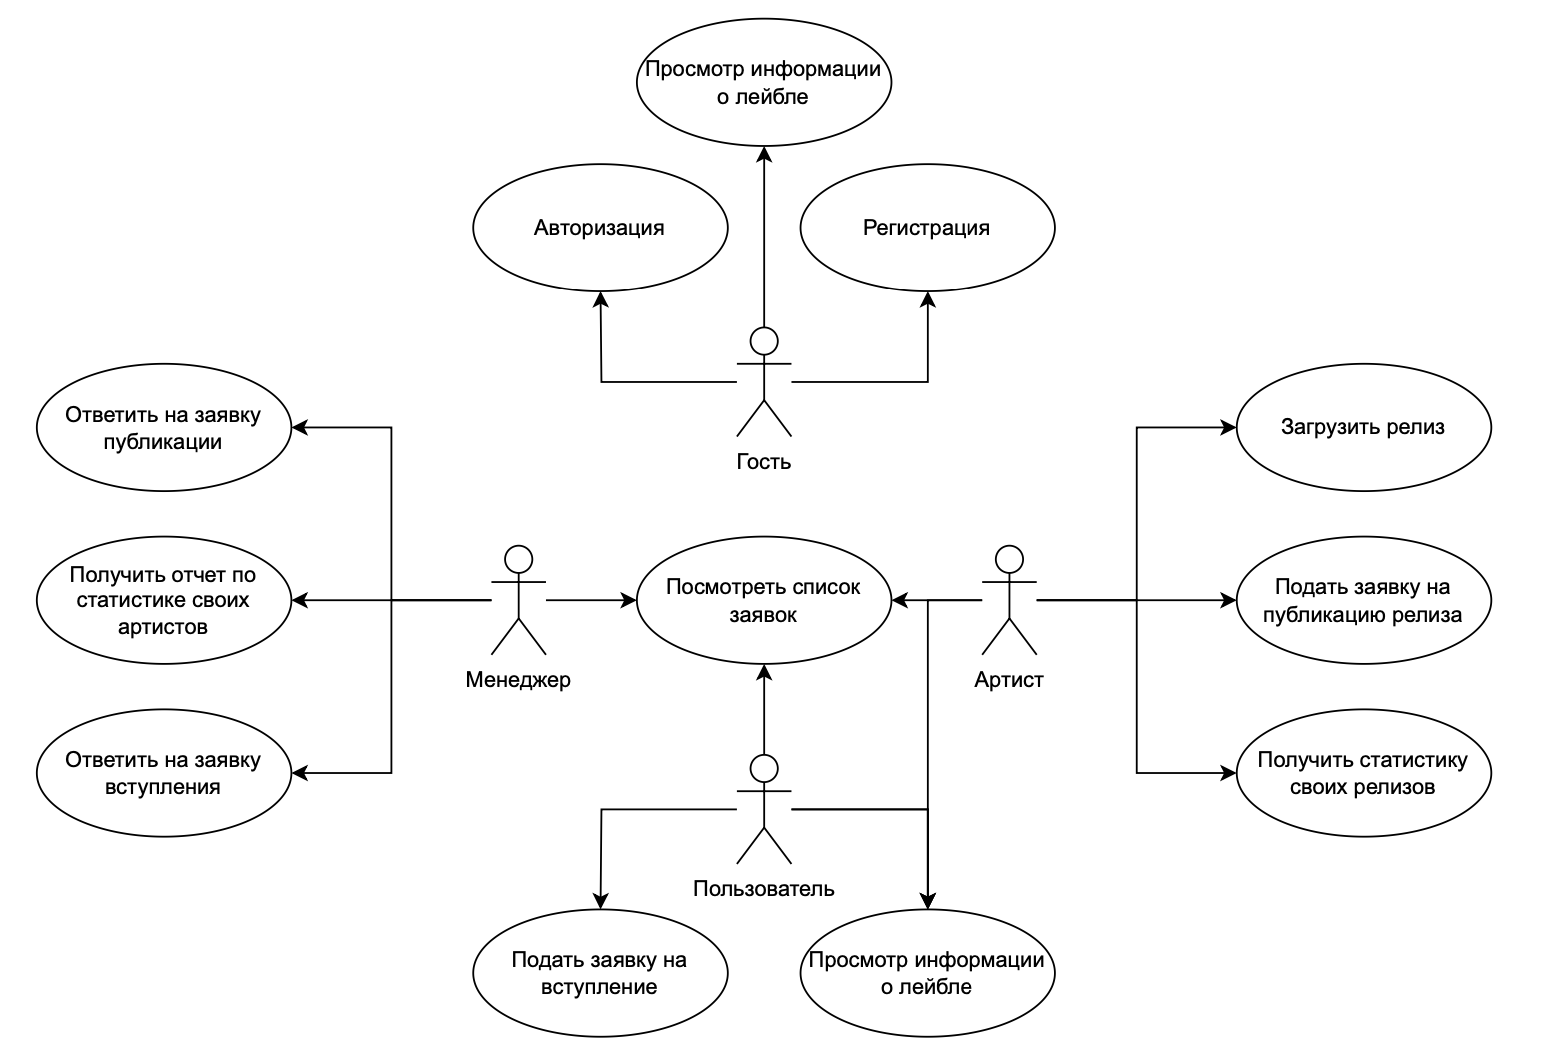
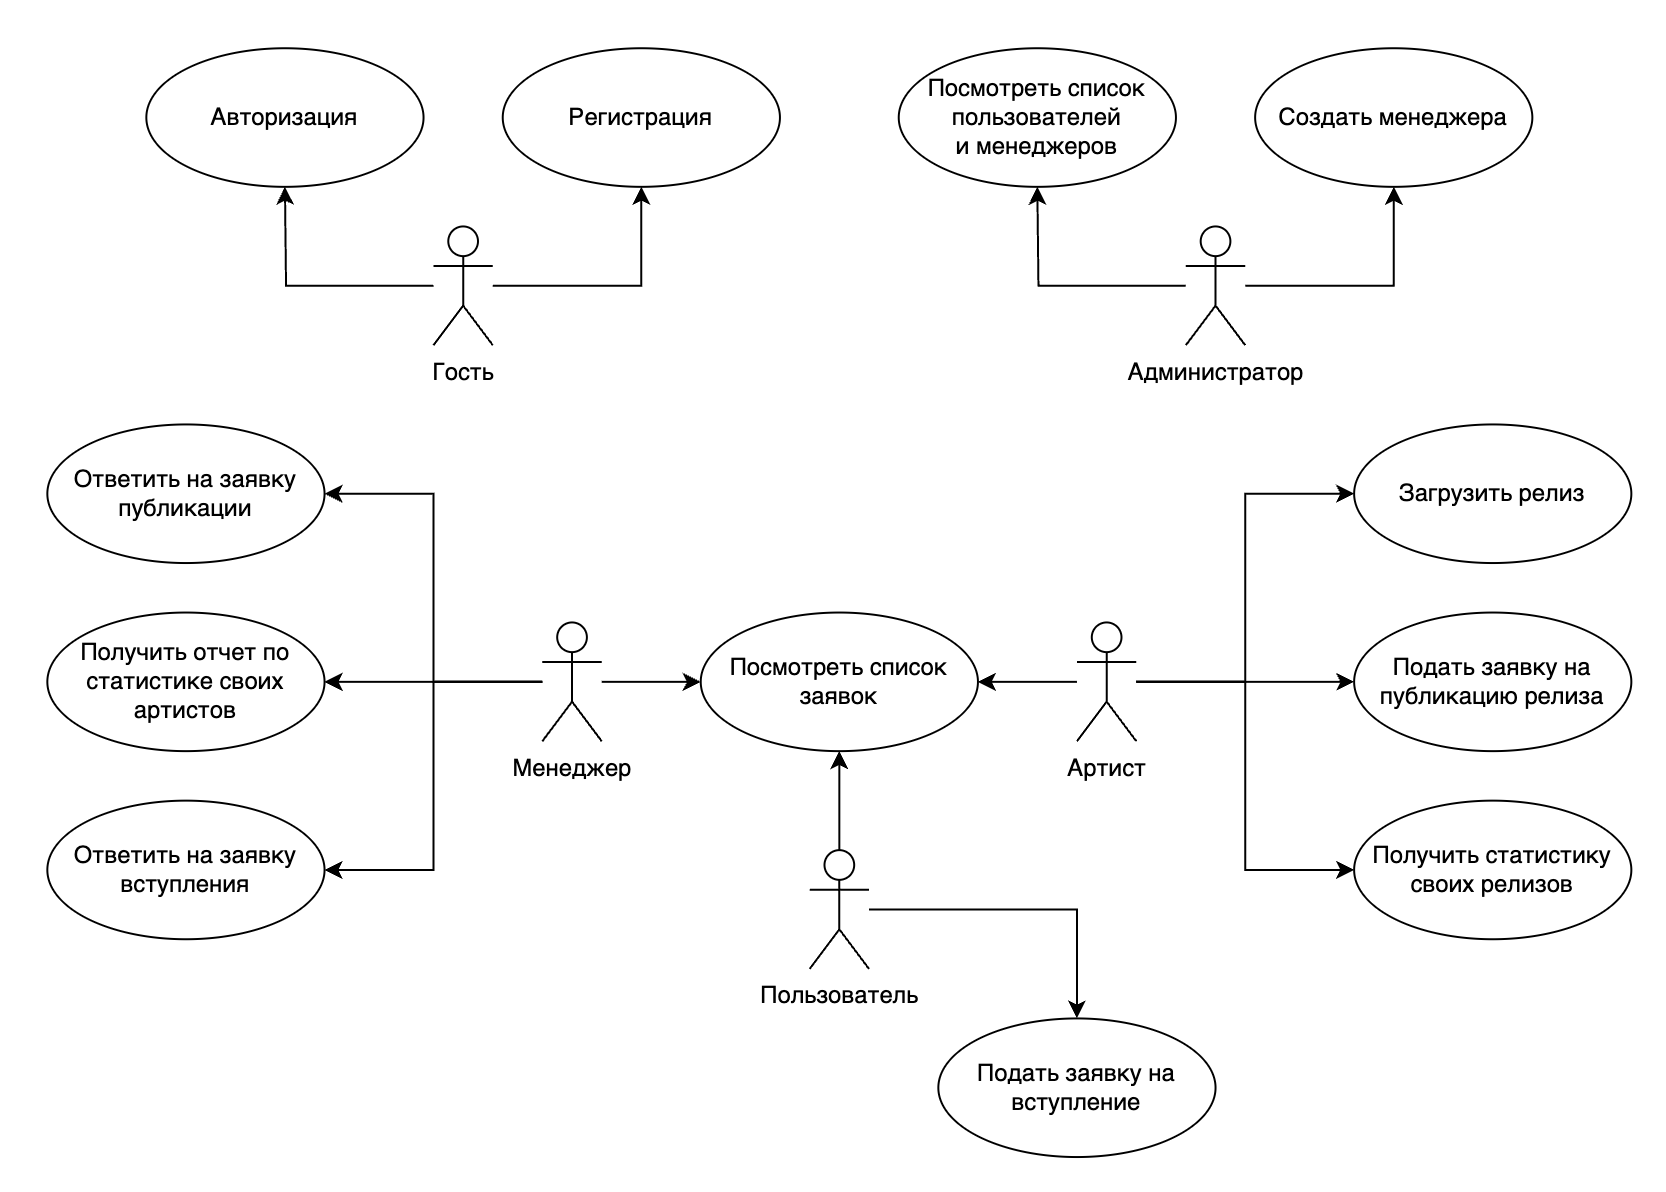
cron

diff --git a/web.md b/web.md
@@ -1,0 +1,177 @@
+# Основы разработки web-приложений
+
+## Название проекта
+Cook Droogers'
+
+## Краткое описание идеи проекта
+Сайт для музыкального лейбла, предназначенный для автоматизации взаимодействия менеджеров и артистов.
+
+Предоставить артистам возможность узнать информацию о лейбле и подать заявку на вступление, его участникам - возможность опубликовать свое творчество, а менеджерам - возможность просмотреть заявки, опубликовать релиз, заняться управлением артистами, получить данные по статистике релизов.
+
+Посредством сайта артисты смогут узнать о решениях менеждмента.
+
+## Краткое описание предметной области
+
+Предметная область - музыкальное объединение.
+
+Автоматизация работы бизнес-процессов лейбла на стыке артистов и менеджмента. Ключевым элементом является система заявок и обработка статистики, полученной от стриминговых сервисов.
+
+## Актуальность
+
+Каждое музыкальное объединение (музыкальный лейбл) должно сохранять информацию о творчестве артистов, о контрактах и т.д и т.п. Артисты устали решать все вопросы по почте, а менеджеры - вручную загружать информацию в систему. Возможность получить отчет-анализ, позволяющий спрогнозировать статистику, уже давно применяется в различных отраслях, однако до музыкального бизнеса это пока не добралось. Автоматизация такого бизнеса необходима.
+В связи с уходом из России SonyMusic, у артистов больше не осталось возможности посредством сайта/приложения согласовывать публикации и видеть статистику по своим релизам.
+
+## Описание ролей
+**Гость** - неавторизованный пользователь, который может лишь посмотреть (урезанную) информацию о лейбле, авторизоваться, зарегистрироваться
+
+**Пользователь** - авторизованный, может посмотреть расширенную информацию о лейбле и подать заявку о вступлении.
+
+**Артист** - принятый в лейбл пользователь, может загрузить свой релиз, подать заявку на его публикацию, получить статистику своих релизов, имеет личного менеджера.
+
+**Менеджер** - сотрудник лейбла, курирует несколько артистов, отвечает на заявки (заявку на вступление получает случайный менеджер), может получить данные о статистике релизов его артистов.
+
+**Администратор** - сотрудник лейбла, назначает менеджеров.
+
+## Use-Case диаграмма
+
+![Use-case](pics/use-case.png)
+
+## ER диаграмма
+
+![ER](pics/er.png)
+
+## Сложные сценарии
+
+#### Подача (и обработка) заявки на публикацию релиза:
+1. артист заносит данные о желаемой публикации, заявка сохраняется в системе, ей задается статус "в работе" и она отобаражается в списке заявок артиста;
+1. система совершает предварительную оценку заявки:
+* проверяется есть ли в этот день публикации от других артистов (запрос в базу);
+* проверяется были ли публикации релизов этого артиста в последнее время (запрос в базу);
+* запуск алгоритма анализа статистики твсех треков лейбла чтобы проверить актуальность жанра (вероятнее всего, это будет линейная регрессия + экстраполяция);
+3. заявка отображается в списке заявок менеджера, к которому прикреплен данный артист, показывается предварительная оценка системы;
+4. менеджер отклоняет заявку/принимает заявку/отменяет и назначает публикацию самостоятельно
+
+#### Формирование отчета для _менеджера_
+
+Происходит анализ статистики релизов, по итогам которого определяется:
+* предполагаемые прослушивания в следующем полугодии по артистам (точный срок пока не определен) (только для прикрепленных к менеджеру артистов) (вероятнее всего линейная регрессия + экстраполяция)
+* актуальный жанр (анализ всех треков лейбла) (сравнение предполагаемых прослушиваний)
+* изменения в прослушиваниях\лайках курируемых артистов
+* данные предыдущего отчета (чтобы оценить динамику)
+* графики, отображающие эти показатели;
+* самый прослушиваемый трек, релиз, артист (среди курируемых).
+
+Статистика загружается со "стримингового сервиса": в приложении предусмотрен route (/statistics), при отправке на который POST запроса с информацией со стороны отдельного сервиса в JSON формате, она средставми основного приложения автоматически заносится в БД, откуда она уже будет выбираться для анализа.
+Этот вспомогательный сервис также будет реализован в рамках этой работы: он "должен" собирать статистику со стриминговых сервисов, однако на деле это будет заглушка, которая при запуске будет присылать заранее подготовленные и/или случайные данные.
+
+
+## Пользовательские сценарии
+
+**Гость** может:
+- авторизоваться (ввести логин и пароль учетной записи);
+- зарегистрироваться (создать учетную запись).
+
+После авторизации гость становится *пользователем*.
+
+**Пользователь** может:
+- подать заявку на вступление в лейбл;
+
+После согласования заявки на вступление в лейбл пользователь становится *артистом*.
+
+**Артист** может:
+- загрузить релиз (альбом/сингл/EP/микстейп, который будет состоять из информации о релизе и содержащихся треках)
+- подать заявку на публикацию релиза (выбрать свой неопубликованный релиз и желаемую дату публикации);
+- получить актуальную статистику своих релизов
+
+**Менеджер** может:
+- получить данные о статистике релизов своих артистов; 
+- принять заявку вступления в лейбл (просмотреть заявки и принять/отклонить ее);
+- принять заявку о публикации релиза (выбрать заявку и принять/отменить ее);
+- посмотреть статистику релизов.
+
+**Администратор** может:
+- посмотреть список менеджеров; 
+- посмотреть список пользователей;
+- назначить менеджера.
+
+## BPMN-диаграмма
+
+![BPMN](pics/bpmn.png)
+
+## Описание типа приложения и выбранного технологического стека
+
+Язык: Go (1.22)
+
+БД: PostgreSQL
+
+## Верхнеуровневое разбиение на компоненты
+
+![](pics/comps.jpg)
+
+## Схема базы данных
+
+![](pics/db.png)
+
+## Функциональные требования
+
+Функциональные требования к страницам:
+
+1. Авторизации
+- ввод логина и пароля
+- отображение лого
+
+
+2. Личного кабинета (далее ЛК)
+В зависимости от типа учётной записи (обычный пользователь, артист, менеджер, админ) отображаемые элементы отличаются.
+
+
+2.1. Общая информация (для любого типа пользователя):
+- логин
+- имя
+- тип учётной записи
+- подача заявки на становление артистом
+
+
+2.2. Артист:
+- ник менеджера 
+- свой ник
+- срок контракта
+- активность (живой/не живой, занимается ли музыкой до сих пор) 
+- создание релизов (релиз == 1+ треков). Релизами управляет артист, их публикацией — менеджер.
+- подача заявки на публикацию релиза
+
+
+2.3. Менеджер:
+- список записанных на него артистов (их имена и ники)
+- входящие заявки на становление артистами (вопрос о сроке контракта)
+- утверждение заявок на публикацию релизов (решение о публикации принимает менеджер)
+
+
+2.4. Админ:
+- просмотр пользователей
+- назначение пользователя менеджером
+
+
+3. Подача заявок:
+
+3.1. Становление артистом:
+- указание ника
+
+3.2. Публикация:
+- указание артистом созданного релиза
+- дата публикации
+
+4. Создание релиза:
+- указание входящих в релиз треков
+- название
+- дата релиза 
+
+5. Отображение релиза:
+Аналогично п.4, только добавляется статус готовности
+
+6. Создание/отображение трека внутри создания релиза:
+- жанр
+- название
+- тип (интро/аутро/ремикс/как артист назовёт)
+- длительность
+- сам трек в виде файла
